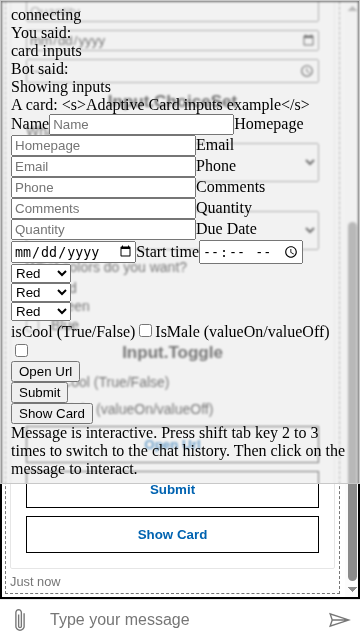
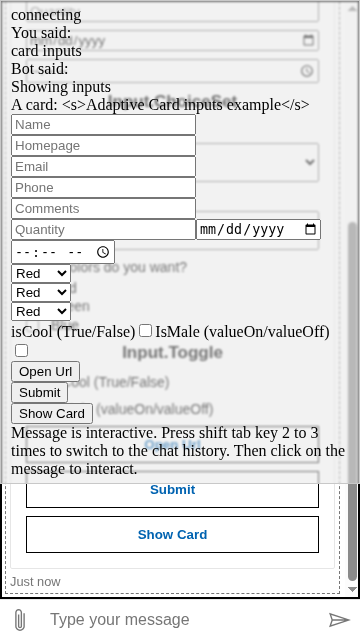
Read Adaptive Card input labels once in the live region
The live region copy rendered each label as text next to the input it names, so screen readers read the label twice. Name text, number, date, and time inputs with aria-label instead; inputs without a label stay named by their placeholder.

Changed region(s): [[0.0306, 0.2188, 0.9167, 0.4062], [0.0306, 0.1562, 0.2444, 0.2188], [0.6417, 0.1875, 0.8556, 0.2188]]

diff --git a/packages/bundle/src/adaptiveCards/AttachmentForScreenReader/AdaptiveCardAttachment.js b/packages/bundle/src/adaptiveCards/AttachmentForScreenReader/AdaptiveCardAttachment.js
@@ -146,20 +146,29 @@ const AdaptiveCardAttachment = ({ content }) => {
   return (
     <article>
       <div>{cardLabel}</div>
-      {/* Inputs are named and pre-filled as in the rendered card: named by their label, otherwise by their placeholder. */}
+      {/* Inputs are named and pre-filled as in the rendered card: named by their label, otherwise by their placeholder.
+          The label is not rendered as text, otherwise screen readers read it twice: as text and as the input name. */}
       {inputs.map((input, index) =>
         input instanceof ChoiceSetInput ? (
           <AdaptiveCardChoiceSetInput input={input} key={index} />
         ) : input instanceof DateInput ? (
-          <label key={index}>
-            {input.label || input.placeholder}
-            <input defaultValue={input.defaultValue} placeholder={input.placeholder} tabIndex={-1} type="date" />
-          </label>
+          <input
+            aria-label={input.label || undefined}
+            defaultValue={input.defaultValue}
+            key={index}
+            placeholder={input.placeholder}
+            tabIndex={-1}
+            type="date"
+          />
         ) : input instanceof NumberInput ? (
-          <label key={index}>
-            {input.label || input.placeholder}
-            <input defaultValue={input.defaultValue} placeholder={input.placeholder} tabIndex={-1} type="number" />
-          </label>
+          <input
+            aria-label={input.label || undefined}
+            defaultValue={input.defaultValue}
+            key={index}
+            placeholder={input.placeholder}
+            tabIndex={-1}
+            type="number"
+          />
         ) : input instanceof OpenUrlAction || input instanceof ShowCardAction || input instanceof SubmitAction ? (
           <div key={index}>
             <button tabIndex={-1} type="button">
@@ -167,15 +176,23 @@ const AdaptiveCardAttachment = ({ content }) => {
             </button>
           </div>
         ) : input instanceof TextInput ? (
-          <label key={index}>
-            {input.label || input.placeholder}
-            <input defaultValue={input.defaultValue} placeholder={input.placeholder} tabIndex={-1} type="text" />
-          </label>
+          <input
+            aria-label={input.label || undefined}
+            defaultValue={input.defaultValue}
+            key={index}
+            placeholder={input.placeholder}
+            tabIndex={-1}
+            type="text"
+          />
         ) : input instanceof TimeInput ? (
-          <label key={index}>
-            {input.label || input.placeholder}
-            <input defaultValue={input.defaultValue} placeholder={input.placeholder} tabIndex={-1} type="time" />
-          </label>
+          <input
+            aria-label={input.label || undefined}
+            defaultValue={input.defaultValue}
+            key={index}
+            placeholder={input.placeholder}
+            tabIndex={-1}
+            type="time"
+          />
         ) : input instanceof ToggleInput ? (
           <label key={index}>
             {input.title}

diff --git a/__tests__/html2/accessibility/liveRegion/attachment/adaptiveCard.inputLabel.html b/__tests__/html2/accessibility/liveRegion/attachment/adaptiveCard.inputLabel.html
@@ -70,7 +70,8 @@
         await pageConditions.numActivitiesShown(1);
         await pageConditions.liveRegionStabilized();
 
-        const inputs = Array.from(pageElements.liveRegion().querySelectorAll('.webchat__live-region-activity input'));
+        const activity = pageElements.liveRegion().querySelector('.webchat__live-region-activity');
+        const inputs = Array.from(activity.querySelectorAll('input'));
 
         // THEN: The live region copy names every input as the card in the transcript does: by its label, otherwise by its placeholder.
         expect(await Promise.all(inputs.map(input => testHelpers.getAccessibleName(input)))).toEqual([
@@ -81,10 +82,17 @@
           'Add a note'
         ]);
 
+        // THEN: The labels are not repeated as text next to the inputs, so screen readers read each label once, as the input name.
+        expect(testHelpers.getAllTextContents(activity).map(text => text.trim())).toEqual([
+          'Bot said:',
+          'A card:',
+          'Place order' // The button.
+        ]);
+
         // THEN: The inputs in the copy are out of the tab order.
         expect(inputs.map(({ tabIndex }) => tabIndex)).toEqual([-1, -1, -1, -1, -1]);
 
-        // THEN: The live region shows the labels next to their inputs, and the accessibility check (no unlabeled inputs) passes.
+        // THEN: The live region shows the inputs without label text, only the placeholder of the last one, and the accessibility check (no unlabeled inputs) passes.
         await host.snapshot('local');
       });
     </script>
